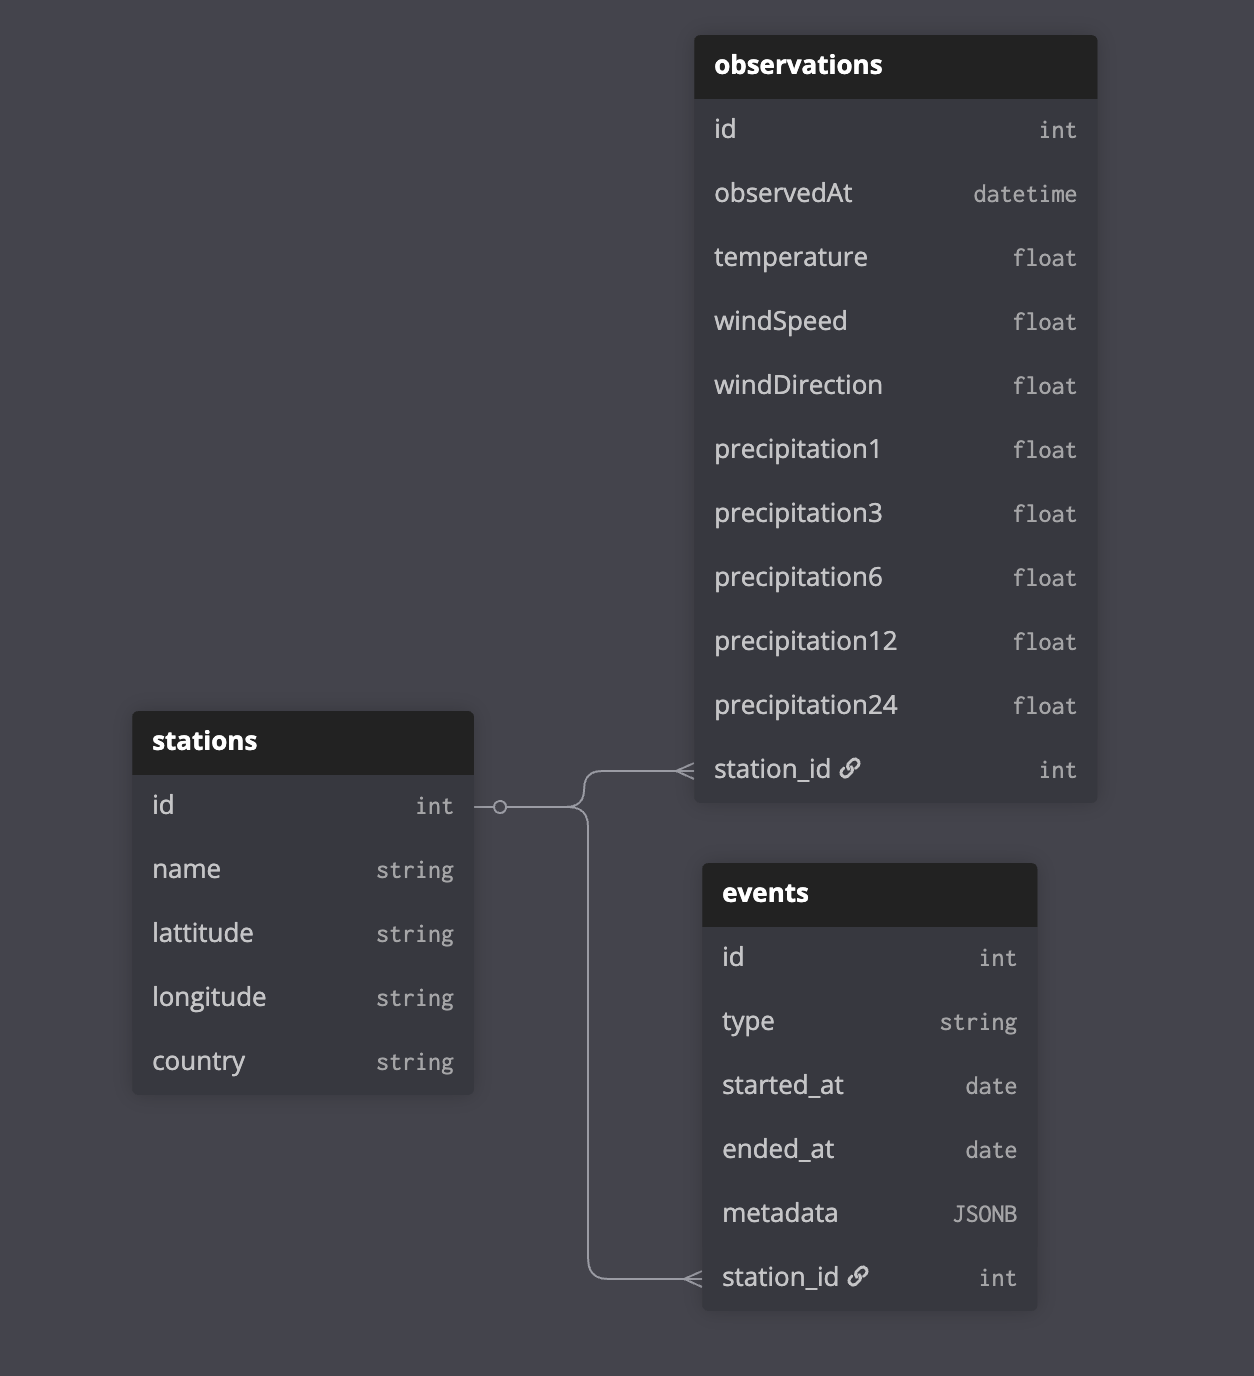
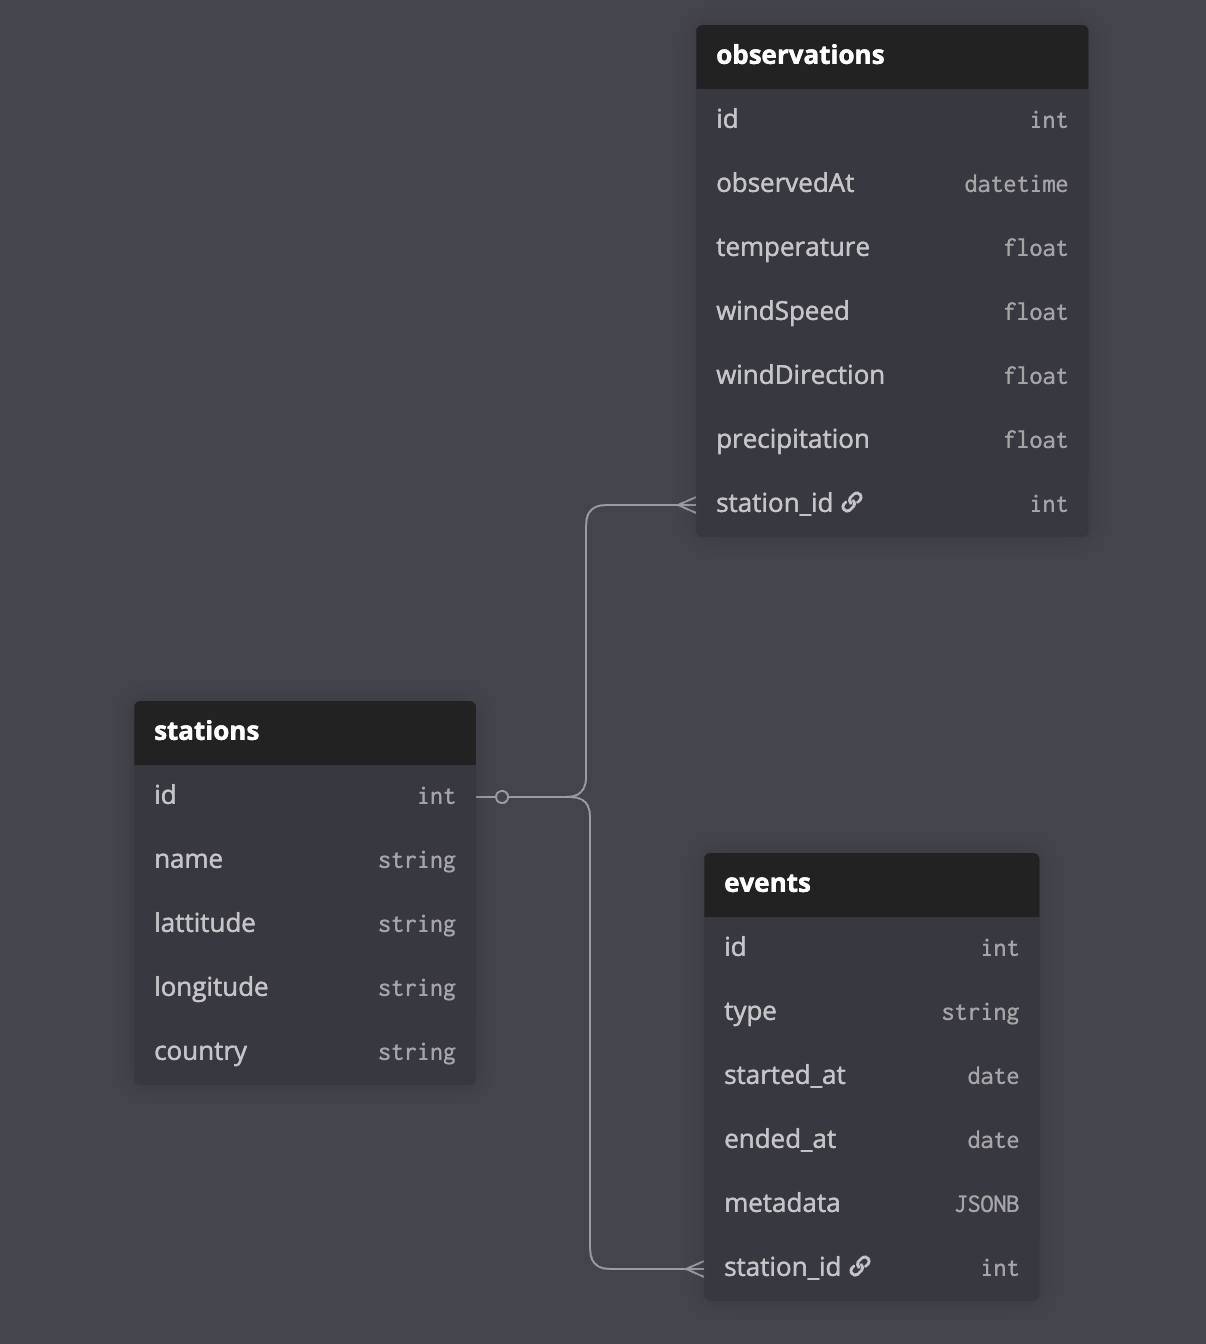
feat(mapping): add SYNOP data mapping for observations and stations
- implement mappers for SYNOP observations and stations
- convert temperature and wind speed to standard units
- update Observation and Station models to match new structure
- refactor FetchSynop to integrate data mapping
- simplify precipitation fields in database schema

diff --git a/internal/mapping/synop.go b/internal/mapping/synop.go
@@ -1,0 +1,100 @@
+package mapping
+
+import (
+	"strconv"
+	"time"
+
+	"github.com/matteobnvl/Platform-meteo/internal/model"
+)
+
+type synopObservation struct {
+	StationId      string
+	Date           string
+	Temperature    float64 // kelvin
+	WindSpeed      float64 // m/s
+	WindDirection  float64
+	Precipitation1 float64 // mm
+}
+
+type synopStation struct {
+	Id        string
+	Name      string
+	Latitude  float64
+	Longitude float64
+}
+
+func MapSynopObservation(header []string, row []string) *model.Observation {
+	cols := buildMap(header, row)
+	s := parseSynopObservation(cols)
+
+	return &model.Observation{
+		Id:            0,
+		StationId:     s.StationId,
+		ObservedAt:    s.getDate(),
+		Temperature:   s.getTempToCelsius(),
+		WindSpeed:     s.getWindSpeedToKmh(),
+		WindDirection: s.WindDirection,
+		Precipitation: s.Precipitation1,
+	}
+}
+
+func MapSynopStation(header []string, row []string) *model.Station {
+	cols := buildMap(header, row)
+	s := parseSynopStation(cols)
+
+	return &model.Station{
+		Id:        s.Id,
+		Name:      s.Name,
+		Latitude:  s.Latitude,
+		Longitude: s.Longitude,
+	}
+}
+
+func parseSynopObservation(obs map[string]string) synopObservation {
+	temp, _ := strconv.ParseFloat(obs["t"], 64)
+	ff, _ := strconv.ParseFloat(obs["ff"], 64)
+	dd, _ := strconv.ParseFloat(obs["dd"], 64)
+	rr1, _ := strconv.ParseFloat(obs["rr1"], 64)
+	return synopObservation{
+		StationId:      obs["geo_id_wmo"],
+		Date:           obs["validity_time"],
+		Temperature:    temp,
+		WindSpeed:      ff,
+		WindDirection:  dd,
+		Precipitation1: rr1,
+	}
+}
+
+func parseSynopStation(st map[string]string) synopStation {
+	lat, _ := strconv.ParseFloat(st["lat"], 64)
+	lon, _ := strconv.ParseFloat(st["lon"], 64)
+	return synopStation{
+		Id:        st["geo_id_wmo"],
+		Name:      st["name"],
+		Latitude:  lat,
+		Longitude: lon,
+	}
+}
+
+func buildMap(header []string, row []string) map[string]string {
+	cols := make(map[string]string, len(header))
+	for i, name := range header {
+		if i < len(row) {
+			cols[name] = row[i]
+		}
+	}
+	return cols
+}
+
+func (s synopObservation) getTempToCelsius() float64 {
+	return s.Temperature - 273.15 // kelvin to celsius
+}
+
+func (s synopObservation) getWindSpeedToKmh() float64 {
+	return s.WindSpeed * 3.6 // m/s to km/h
+}
+
+func (s synopObservation) getDate() time.Time {
+	date, _ := time.Parse(time.RFC3339, s.Date)
+	return date
+}

diff --git a/internal/fetcher/fetcher.go b/internal/fetcher/fetcher.go
@@ -9,29 +9,56 @@ import (
 	"log"
 	"net/http"
 	"time"
+
+	"github.com/matteobnvl/Platform-meteo/internal/mapping"
 )
 
-func Run(db *sql.DB) {
+func FetchSynop(db *sql.DB) {
 	url := fmt.Sprintf(
 		"https://object.files.data.gouv.fr/meteofrance/data/synchro_ftp/OBS/SYNOP/synop_%d.csv.gz",
 		time.Now().Year(),
 	)
 
+	resp := fetch(url)
+	defer resp.Body.Close()
+
+	header, csvReader := readCsv(resp)
+	var total int
+	for {
+		row, err := csvReader.Read()
+		if err == io.EOF {
+			break
+		}
+		if err != nil {
+			continue
+		}
+		total++
+
+		obs := mapping.MapSynopObservation(header, row)
+		st := mapping.MapSynopStation(header, row)
+		fmt.Println(obs, st)
+	}
+
+	fmt.Printf("ingestion terminée de %d observations \n", total)
+}
+
+func fetch(url string) *http.Response {
 	client := &http.Client{Timeout: 10 * time.Second}
 	resp, err := client.Get(url)
 
 	if err != nil {
 		panic(err)
 	}
-	defer resp.Body.Close()
 	if resp.StatusCode != http.StatusOK {
 		log.Fatalf("statut %d", resp.StatusCode)
 	}
+	return resp
+}
 
+func readCsv(resp *http.Response) ([]string, *csv.Reader) {
 	gzReader, err := gzip.NewReader(resp.Body)
 	if err != nil {
 		log.Fatalf("erreur décompression", err)
-		return
 	}
 	defer gzReader.Close()
 
@@ -39,20 +66,10 @@ func Run(db *sql.DB) {
 	csvReader.Comma = ';'
 	csvReader.LazyQuotes = true
 
-	_, err = csvReader.Read()
+	header, err := csvReader.Read()
 	if err != nil {
 		log.Fatal("erreur lecture header", err)
-		return
 	}
 
-	var total int
-	for {
-		_, err := csvReader.Read()
-		if err == io.EOF {
-			break
-		}
-		total++
-	}
-
-	fmt.Printf("ingestion terminée de %d observations \n", total)
+	return header, csvReader
 }

diff --git a/internal/model/model.go b/internal/model/model.go
@@ -11,17 +11,13 @@ type Station struct {
 }
 
 type Observation struct {
-	Id              int
-	StationId       string
-	ObservedAt      time.Time
-	Temperature     *float64
-	WindSpeed       *float64
-	WindDirection   *float64
-	Precipitation1  *float64
-	Precipitation3  *float64
-	Precipitation6  *float64
-	Precipitation12 *float64
-	Precipitation24 *float64
+	Id            int
+	StationId     string
+	ObservedAt    time.Time
+	Temperature   float64
+	WindSpeed     float64
+	WindDirection float64
+	Precipitation float64
 }
 
 type Event struct {

diff --git a/cmd/ingester/main.go b/cmd/ingester/main.go
@@ -6,8 +6,8 @@ import (
 )
 
 func main() {
-	db := db.InitDB(false)
+	db := db.InitDB(true)
 	defer db.Close()
 
-	fetcher.Run(db)
+	fetcher.FetchSynop(db)
 }
